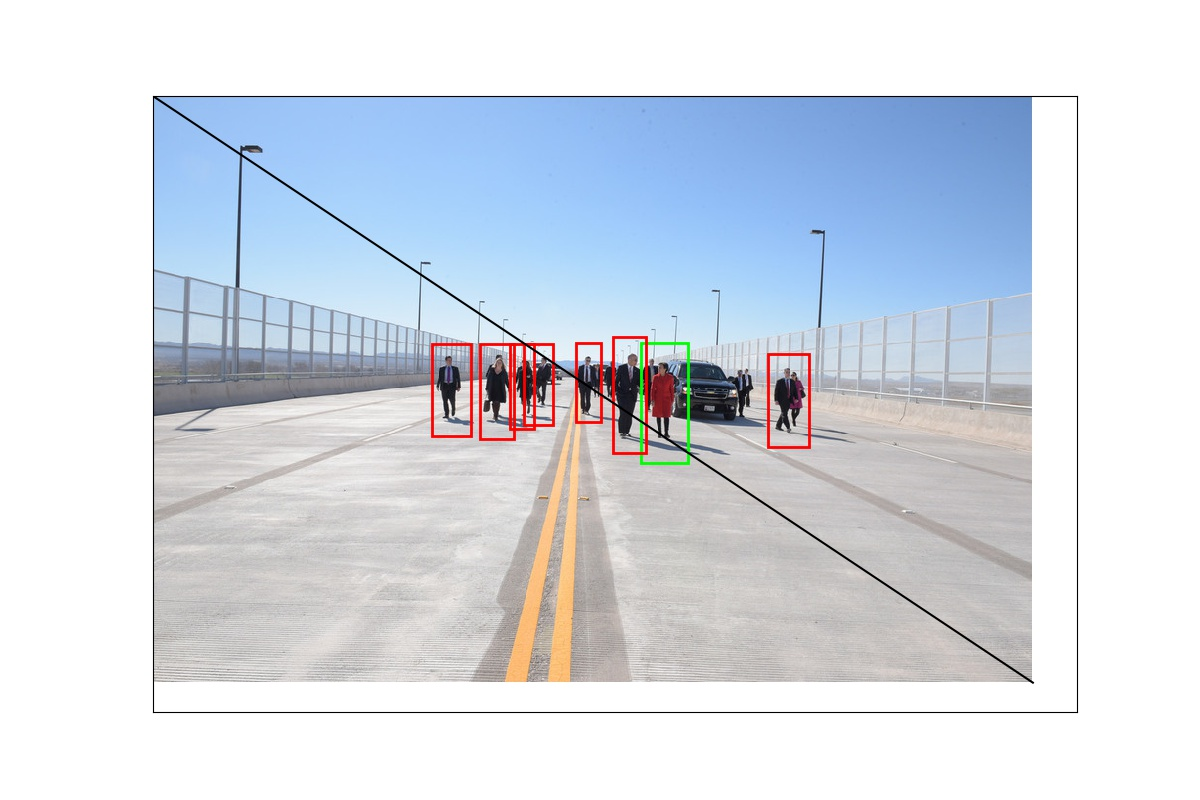
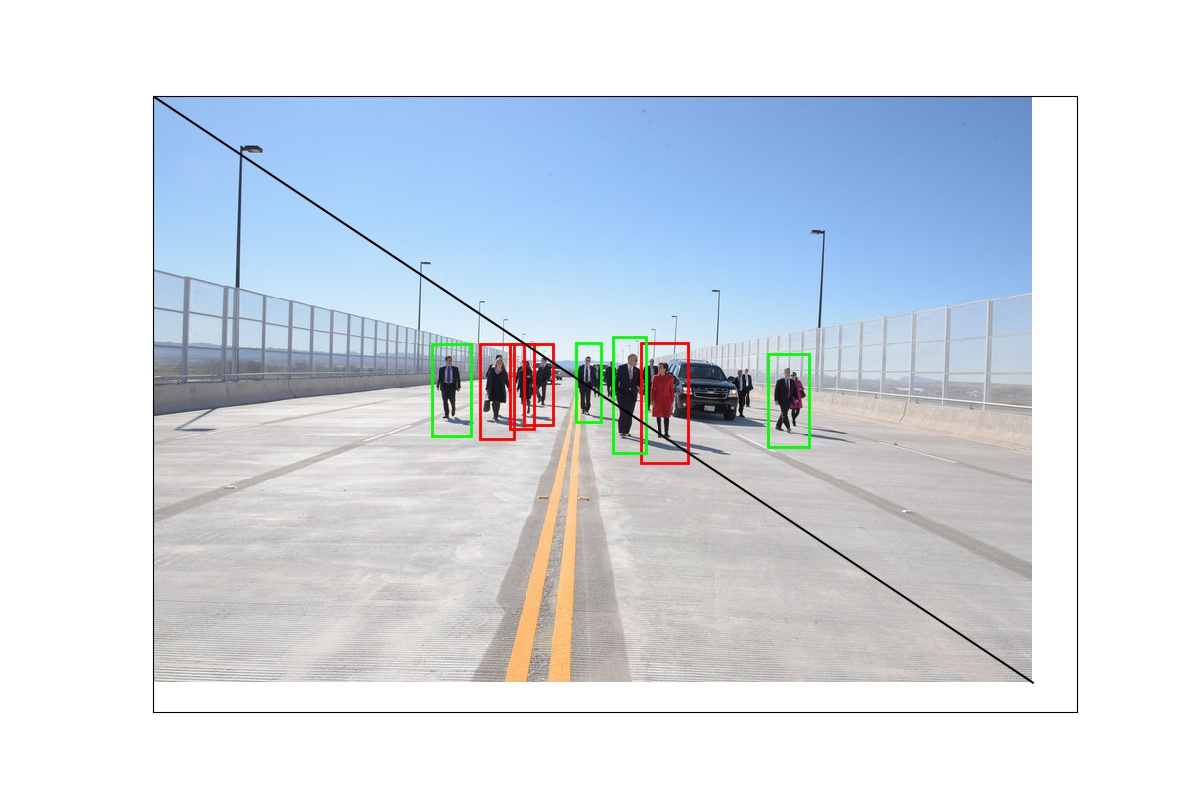
test perimeter detection3

Changed region(s): [[0.4625, 0.4062, 0.5858, 0.5938], [0.3392, 0.4062, 0.4008, 0.5625], [0.6167, 0.4375, 0.6783, 0.5625]]

diff --git a/perimeter_detection.py b/perimeter_detection.py
@@ -96,8 +96,9 @@ def perimeter_detection(weights_path, image_path, result_path, threshold, perime
             current_axis.text(xmin, ymin, label, size='x-large', color='white', bbox={'facecolor': color, 'alpha': 1.0})
 
         plt.savefig(result_path + '/detection_' + file_names[k], format='jpg')
+        plt.close('all')
 
-    vector_a = np.array([perimeter_a[0] - perimeter_b[0], perimeter_a[1] - perimeter_b[1]])
+    vector_a = np.array([perimeter_a[0] - perimeter_b[0], perimeter_a[1] - perimeter_b[1], 0])
     for k in range(len(y_pred_thresh)):
         plt.figure(figsize=(12, 8))
         plt.imshow(original_images[k])
@@ -113,27 +114,27 @@ def perimeter_detection(weights_path, image_path, result_path, threshold, perime
             ymin = box[3] * original_images[k].shape[0] / img_height
             xmax = box[4] * original_images[k].shape[1] / img_width
             ymax = box[5] * original_images[k].shape[0] / img_height
-            vector_b = np.array([xmin - perimeter_a[0], ymin - perimeter_a[1]])
+            vector_b = np.array([xmin - perimeter_a[0], ymin - perimeter_a[1], 0])
             distance = np.linalg.norm(np.cross(vector_a, vector_b)/np.linalg.norm(vector_a))
             if distance < threshold:
                 current_axis.add_patch(
                     plt.Rectangle((xmin, ymin), xmax - xmin, ymax - ymin, color='#FF0000', fill=False, linewidth=2))
                 continue
-            vector_b = np.array([xmin - perimeter_a[0], ymax - perimeter_a[1]])
+            vector_b = np.array([xmin - perimeter_a[0], ymax - perimeter_a[1], 0])
             distance = np.linalg.norm(np.cross(vector_a, vector_b) / np.linalg.norm(vector_a))
             if distance < threshold:
                 current_axis.add_patch(
                     plt.Rectangle((xmin, ymin), xmax - xmin, ymax - ymin, color='#FF0000', fill=False, linewidth=2))
                 continue
-            vector_b = np.array([xmax - perimeter_a[0], ymin - perimeter_a[1]])
+            vector_b = np.array([xmax - perimeter_a[0], ymin - perimeter_a[1], 0])
             distance = np.linalg.norm(np.cross(vector_a, vector_b) / np.linalg.norm(vector_a))
             if distance < threshold:
                 current_axis.add_patch(
                     plt.Rectangle((xmin, ymin), xmax - xmin, ymax - ymin, color='#FF0000', fill=False, linewidth=2))
                 continue
-            vector_b = np.array([xmax - perimeter_a[0], ymax - perimeter_a[1]])
+            vector_b = np.array([xmax - perimeter_a[0], ymax - perimeter_a[1], 0])
             distance = np.linalg.norm(np.cross(vector_a, vector_b) / np.linalg.norm(vector_a))
-            if distance > threshold:
+            if distance < threshold:
                 current_axis.add_patch(
                     plt.Rectangle((xmin, ymin), xmax - xmin, ymax - ymin, color='#FF0000', fill=False, linewidth=2))
                 continue
@@ -141,7 +142,7 @@ def perimeter_detection(weights_path, image_path, result_path, threshold, perime
                 plt.Rectangle((xmin, ymin), xmax - xmin, ymax - ymin, color='#00FF00', fill=False, linewidth=2))
         plt.plot([perimeter_a[0], perimeter_b[0]], [perimeter_a[1], perimeter_b[1]], 'k')
         plt.savefig(result_path + '/perimeter_' + file_names[k], format='jpg')
-
+        plt.close('all')
 
 
 @click.command()
